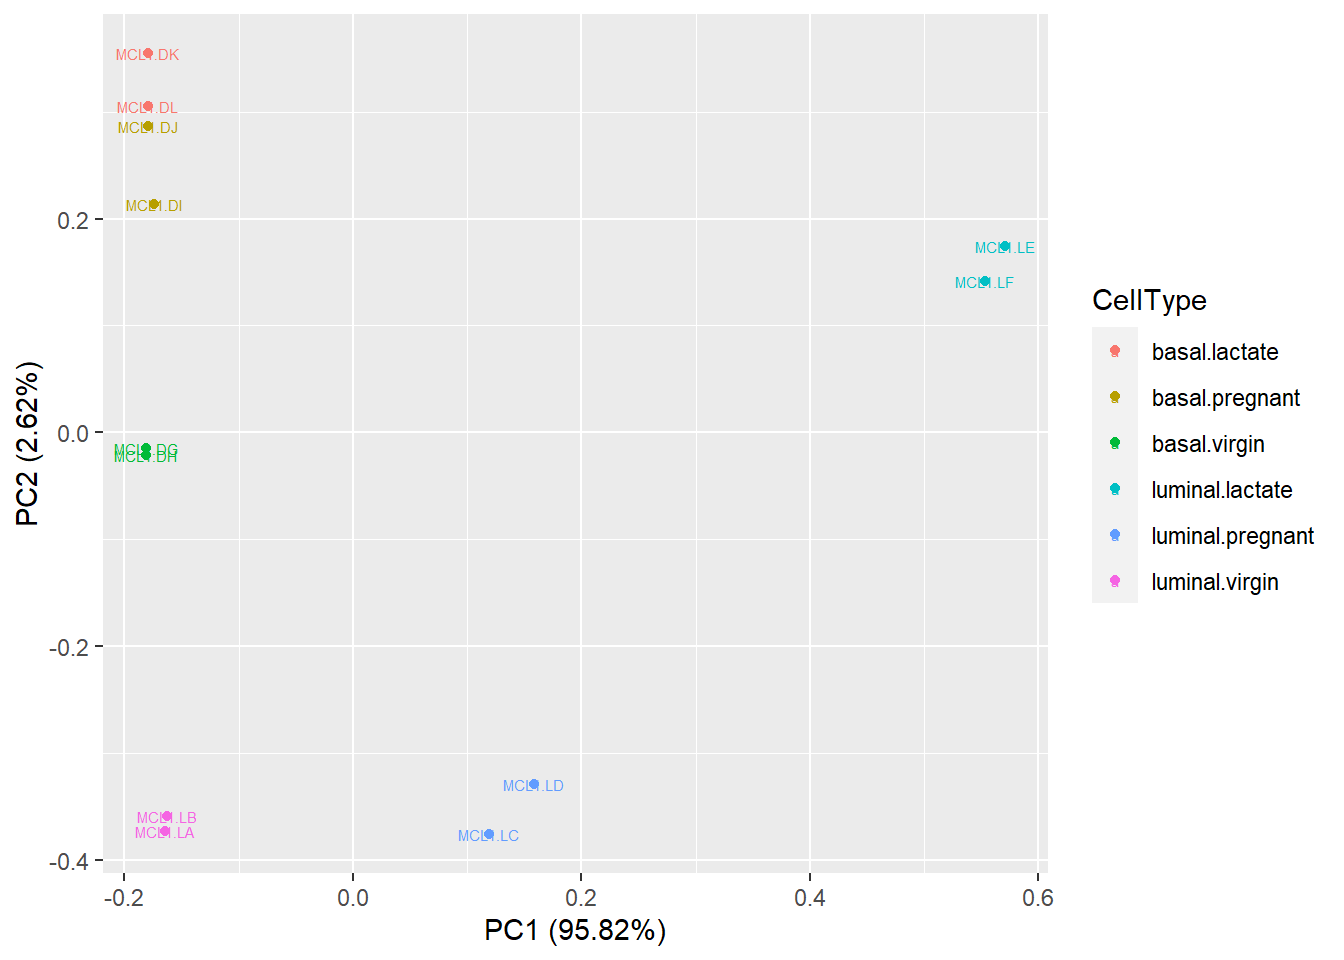
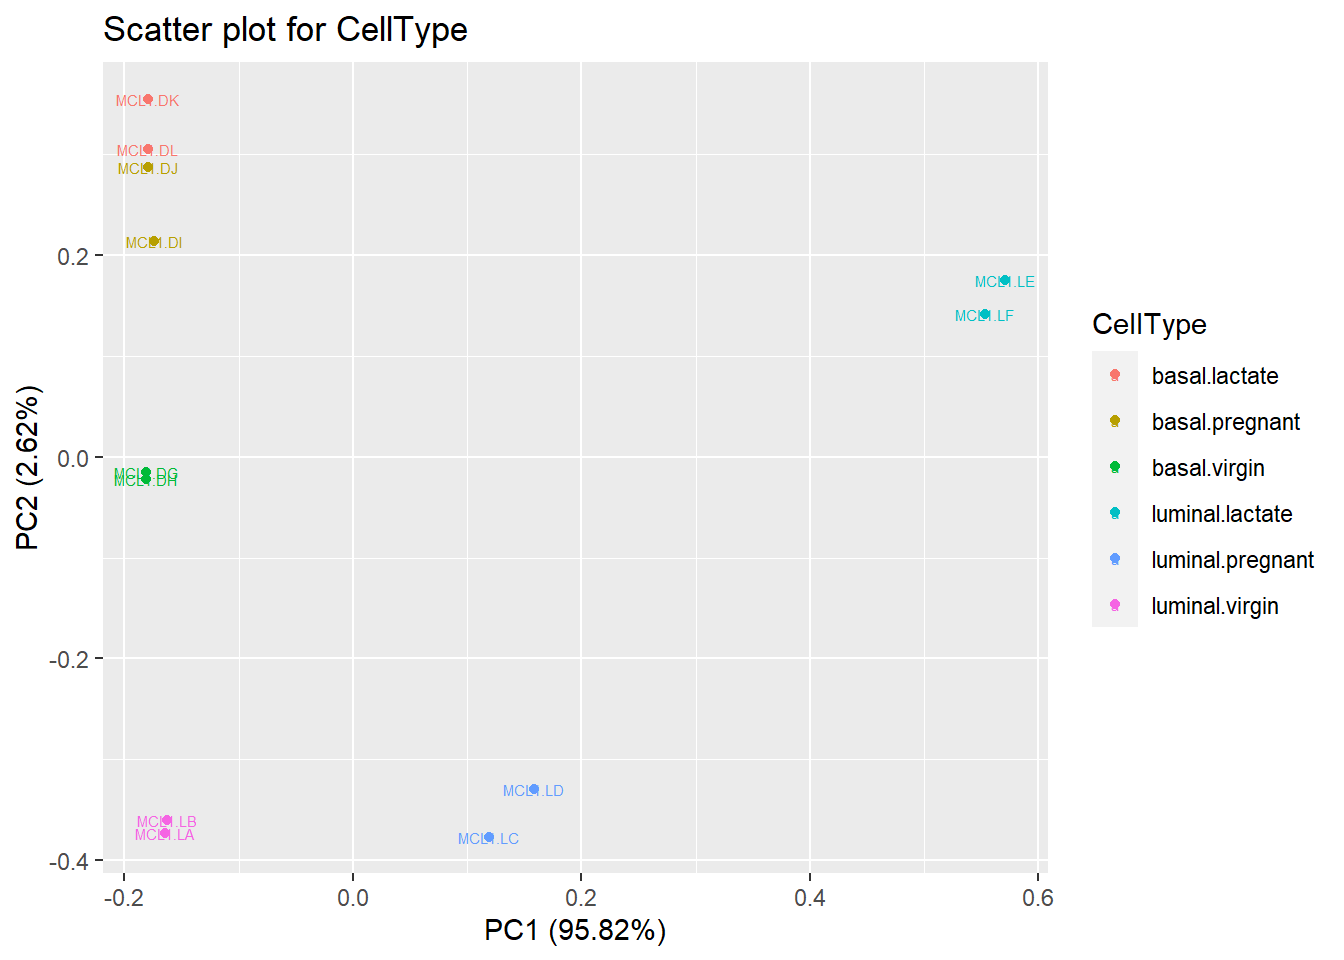
0627

diff --git a/R-workshop/rna-seq-analysis-in-r.html b/R-workshop/rna-seq-analysis-in-r.html
@@ -379,8 +379,7 @@ As we can see RPM = 0.5 can be a very good threshold. Then let’s summarize how
 <p>And finally we can do hierarchical clustering with heatmaps.<a href="https://www.rdocumentation.org/packages/gplots/versions/3.1.1/topics/heatmap.2">heatmap.2()</a> is a very powerful tool from the <code>gplots</code> library to create enhanced heatmap with a dendrogram added to the left side and/or to the top.
 Typically, reordering of the rows and columns according to some set of values (row or column means) within the restrictions imposed by the deprogram is carried out.</p>
 <p><code>heatmap.2</code> provides a number of extensions to the standard R <code>heatmap</code> function.</p>
-<div class="sourceCode" id="cb172"><pre class="sourceCode r"><code class="sourceCode r"><span id="cb172-1"><a href="rna-seq-analysis-in-r.html#cb172-1" aria-hidden="true" tabindex="-1"></a><span class="fu">library</span>(<span class="st">&#39;gplots&#39;</span>)</span></code></pre></div>
-<pre><code>## Warning: package &#39;gplots&#39; was built under R version 4.0.4</code></pre>
+<div class="sourceCode" id="cb172"><pre class="sourceCode r"><code class="sourceCode r"><span id="cb172-1"><a href="rna-seq-analysis-in-r.html#cb172-1" aria-hidden="true" tabindex="-1"></a><span class="fu">library</span>(gplots)</span></code></pre></div>
 <pre><code>## 
 ## Attaching package: &#39;gplots&#39;</code></pre>
 <pre><code>## The following object is masked from &#39;package:stats&#39;:
@@ -388,11 +387,11 @@ Typically, reordering of the rows and columns according to some set of values (r
 ##     lowess</code></pre>
 <div id="plot-top-variable-genes-across-samples" class="section level3" number="8.7.1">
 <h3><span class="header-section-number">8.7.1</span> Plot top variable genes across samples</h3>
-<div class="sourceCode" id="cb176"><pre class="sourceCode r"><code class="sourceCode r"><span id="cb176-1"><a href="rna-seq-analysis-in-r.html#cb176-1" aria-hidden="true" tabindex="-1"></a><span class="fu">heatmap.2</span>(highly_variable_lRpm,<span class="at">trace=</span><span class="st">&quot;none&quot;</span>, <span class="at">main=</span><span class="st">&quot;Top variable genes &quot;</span>,<span class="at">scale=</span><span class="st">&quot;row&quot;</span>,<span class="at">cexCol=</span>.<span class="dv">8</span>,<span class="at">cexRow=</span>.<span class="dv">8</span>)</span></code></pre></div>
+<div class="sourceCode" id="cb175"><pre class="sourceCode r"><code class="sourceCode r"><span id="cb175-1"><a href="rna-seq-analysis-in-r.html#cb175-1" aria-hidden="true" tabindex="-1"></a><span class="fu">heatmap.2</span>(highly_variable_lRpm,<span class="at">trace=</span><span class="st">&quot;none&quot;</span>, <span class="at">main=</span><span class="st">&quot;Top variable genes &quot;</span>,<span class="at">scale=</span><span class="st">&quot;row&quot;</span>,<span class="at">cexCol=</span>.<span class="dv">8</span>,<span class="at">cexRow=</span>.<span class="dv">8</span>)</span></code></pre></div>
 <p><img src="01-intro_files/figure-html/unnamed-chunk-106-1.png" width="672" /></p>
 <p><strong>Advance</strong></p>
 <p>As we can see, the result of heatmap.2 is not easy to interpret, if we want to add more information such as annotation for cell types, we can use <a href="http://nmf.r-forge.r-project.org/aheatmap.html"><code>aheatmap</code></a> function from <em>NMF</em> package.</p>
-<div class="sourceCode" id="cb177"><pre class="sourceCode r"><code class="sourceCode r"><span id="cb177-1"><a href="rna-seq-analysis-in-r.html#cb177-1" aria-hidden="true" tabindex="-1"></a><span class="fu">library</span>(NMF)</span></code></pre></div>
+<div class="sourceCode" id="cb176"><pre class="sourceCode r"><code class="sourceCode r"><span id="cb176-1"><a href="rna-seq-analysis-in-r.html#cb176-1" aria-hidden="true" tabindex="-1"></a><span class="fu">library</span>(NMF)</span></code></pre></div>
 <pre><code>## Loading required package: pkgmaker</code></pre>
 <pre><code>## Loading required package: registry</code></pre>
 <pre><code>## Loading required package: rngtools</code></pre>
@@ -407,25 +406,25 @@ Typically, reordering of the rows and columns according to some set of values (r
 <li>labCol=sampleinfo$group: Labels for the columns are the group informations from sampleinfo.</li>
 </ul>
 <p>And by specifying all the details, we can get a very beautiful heatmap.</p>
-<div class="sourceCode" id="cb183"><pre class="sourceCode r"><code class="sourceCode r"><span id="cb183-1"><a href="rna-seq-analysis-in-r.html#cb183-1" aria-hidden="true" tabindex="-1"></a><span class="fu">aheatmap</span>(highly_variable_lRpm,<span class="at">color =</span> <span class="st">&quot;-RdYlBu:200&quot;</span>, <span class="at">main=</span><span class="st">&quot;Top 500 most variable genes across samples&quot;</span>, <span class="at">annCol=</span>sampleinfo[, <span class="dv">3</span><span class="sc">:</span><span class="dv">4</span>], <span class="at">scale=</span><span class="st">&quot;row&quot;</span>, <span class="at">labCol=</span>sampleinfo<span class="sc">$</span>group)</span></code></pre></div>
+<div class="sourceCode" id="cb182"><pre class="sourceCode r"><code class="sourceCode r"><span id="cb182-1"><a href="rna-seq-analysis-in-r.html#cb182-1" aria-hidden="true" tabindex="-1"></a><span class="fu">aheatmap</span>(highly_variable_lRpm,<span class="at">color =</span> <span class="st">&quot;-RdYlBu:200&quot;</span>, <span class="at">main=</span><span class="st">&quot;Top 500 most variable genes across samples&quot;</span>, <span class="at">annCol=</span>sampleinfo[, <span class="dv">3</span><span class="sc">:</span><span class="dv">4</span>], <span class="at">scale=</span><span class="st">&quot;row&quot;</span>, <span class="at">labCol=</span>sampleinfo<span class="sc">$</span>group)</span></code></pre></div>
 <p><img src="01-intro_files/figure-html/unnamed-chunk-108-1.png" width="672" /></p>
 <p><strong>Save the figures</strong></p>
 <p>Create a folder called “result”, and now we can save the heatmap into the “result” folder.</p>
-<div class="sourceCode" id="cb184"><pre class="sourceCode r"><code class="sourceCode r"><span id="cb184-1"><a href="rna-seq-analysis-in-r.html#cb184-1" aria-hidden="true" tabindex="-1"></a><span class="fu">png</span>(<span class="at">file=</span><span class="st">&quot;./result/Highvargenes_heatmap.png&quot;</span>,<span class="at">res=</span><span class="dv">100</span>)</span>
-<span id="cb184-2"><a href="rna-seq-analysis-in-r.html#cb184-2" aria-hidden="true" tabindex="-1"></a><span class="fu">aheatmap</span>(highly_variable_lRpm,<span class="at">color =</span> <span class="st">&quot;-RdYlBu:200&quot;</span>, <span class="at">main=</span><span class="st">&quot;Top 500 most variable genes across samples&quot;</span>, <span class="at">annCol=</span>sampleinfo[, <span class="dv">3</span><span class="sc">:</span><span class="dv">4</span>], <span class="at">scale=</span><span class="st">&quot;row&quot;</span>, <span class="at">labCol=</span>sampleinfo<span class="sc">$</span>group)</span>
-<span id="cb184-3"><a href="rna-seq-analysis-in-r.html#cb184-3" aria-hidden="true" tabindex="-1"></a><span class="fu">dev.off</span>()</span></code></pre></div>
+<div class="sourceCode" id="cb183"><pre class="sourceCode r"><code class="sourceCode r"><span id="cb183-1"><a href="rna-seq-analysis-in-r.html#cb183-1" aria-hidden="true" tabindex="-1"></a><span class="fu">png</span>(<span class="at">file=</span><span class="st">&quot;./result/Highvargenes_heatmap.png&quot;</span>,<span class="at">res=</span><span class="dv">100</span>)</span>
+<span id="cb183-2"><a href="rna-seq-analysis-in-r.html#cb183-2" aria-hidden="true" tabindex="-1"></a><span class="fu">aheatmap</span>(highly_variable_lRpm,<span class="at">color =</span> <span class="st">&quot;-RdYlBu:200&quot;</span>, <span class="at">main=</span><span class="st">&quot;Top 500 most variable genes across samples&quot;</span>, <span class="at">annCol=</span>sampleinfo[, <span class="dv">3</span><span class="sc">:</span><span class="dv">4</span>], <span class="at">scale=</span><span class="st">&quot;row&quot;</span>, <span class="at">labCol=</span>sampleinfo<span class="sc">$</span>group)</span>
+<span id="cb183-3"><a href="rna-seq-analysis-in-r.html#cb183-3" aria-hidden="true" tabindex="-1"></a><span class="fu">dev.off</span>()</span></code></pre></div>
 <p>You can also use <code>pdf()</code> to save your figures in pdf format.</p>
 </div>
 <div id="plot-sample-sample-clustering-heatmap" class="section level3" number="8.7.2">
 <h3><span class="header-section-number">8.7.2</span> Plot sample-sample clustering heatmap</h3>
 <p>Pearson correlation is used to evaluate the correlation between samples when the data is normally distribute. As we already normalize the data, so we can get the pearson correlation by:</p>
-<div class="sourceCode" id="cb185"><pre class="sourceCode r"><code class="sourceCode r"><span id="cb185-1"><a href="rna-seq-analysis-in-r.html#cb185-1" aria-hidden="true" tabindex="-1"></a>corr <span class="ot">&lt;-</span> <span class="fu">cor</span>(myRPM.keep)</span>
-<span id="cb185-2"><a href="rna-seq-analysis-in-r.html#cb185-2" aria-hidden="true" tabindex="-1"></a><span class="fu">aheatmap</span>(corr,<span class="at">main =</span> <span class="st">&quot;Correlation beween samples&quot;</span>,<span class="at">labCol=</span>sampleinfo<span class="sc">$</span>group,<span class="at">labRow=</span>sampleinfo<span class="sc">$</span>group, <span class="at">width =</span> <span class="fl">0.5</span>, <span class="at">height =</span> <span class="fl">0.5</span>)</span></code></pre></div>
+<div class="sourceCode" id="cb184"><pre class="sourceCode r"><code class="sourceCode r"><span id="cb184-1"><a href="rna-seq-analysis-in-r.html#cb184-1" aria-hidden="true" tabindex="-1"></a>corr <span class="ot">&lt;-</span> <span class="fu">cor</span>(myRPM.keep)</span>
+<span id="cb184-2"><a href="rna-seq-analysis-in-r.html#cb184-2" aria-hidden="true" tabindex="-1"></a><span class="fu">aheatmap</span>(corr,<span class="at">main =</span> <span class="st">&quot;Correlation beween samples&quot;</span>,<span class="at">labCol=</span>sampleinfo<span class="sc">$</span>group,<span class="at">labRow=</span>sampleinfo<span class="sc">$</span>group, <span class="at">width =</span> <span class="fl">0.5</span>, <span class="at">height =</span> <span class="fl">0.5</span>)</span></code></pre></div>
 <p><img src="01-intro_files/figure-html/unnamed-chunk-110-1.png" width="672" />
 Plot the heatmap and save the figures:</p>
-<div class="sourceCode" id="cb186"><pre class="sourceCode r"><code class="sourceCode r"><span id="cb186-1"><a href="rna-seq-analysis-in-r.html#cb186-1" aria-hidden="true" tabindex="-1"></a><span class="fu">png</span>(<span class="at">file=</span><span class="st">&quot;./result/correlations_heatmap.png&quot;</span>,<span class="at">res=</span><span class="dv">100</span>)</span>
-<span id="cb186-2"><a href="rna-seq-analysis-in-r.html#cb186-2" aria-hidden="true" tabindex="-1"></a><span class="fu">aheatmap</span>(corr,<span class="at">main =</span> <span class="st">&quot;Correlation beween samples&quot;</span>,<span class="at">labCol=</span>sampleinfo<span class="sc">$</span>group,<span class="at">labRow=</span>sampleinfo<span class="sc">$</span>group, <span class="at">width =</span> <span class="fl">0.5</span>, <span class="at">height =</span> <span class="fl">0.5</span>)</span>
-<span id="cb186-3"><a href="rna-seq-analysis-in-r.html#cb186-3" aria-hidden="true" tabindex="-1"></a><span class="fu">dev.off</span>()</span></code></pre></div>
+<div class="sourceCode" id="cb185"><pre class="sourceCode r"><code class="sourceCode r"><span id="cb185-1"><a href="rna-seq-analysis-in-r.html#cb185-1" aria-hidden="true" tabindex="-1"></a><span class="fu">png</span>(<span class="at">file=</span><span class="st">&quot;./result/correlations_heatmap.png&quot;</span>,<span class="at">res=</span><span class="dv">100</span>)</span>
+<span id="cb185-2"><a href="rna-seq-analysis-in-r.html#cb185-2" aria-hidden="true" tabindex="-1"></a><span class="fu">aheatmap</span>(corr,<span class="at">main =</span> <span class="st">&quot;Correlation beween samples&quot;</span>,<span class="at">labCol=</span>sampleinfo<span class="sc">$</span>group,<span class="at">labRow=</span>sampleinfo<span class="sc">$</span>group, <span class="at">width =</span> <span class="fl">0.5</span>, <span class="at">height =</span> <span class="fl">0.5</span>)</span>
+<span id="cb185-3"><a href="rna-seq-analysis-in-r.html#cb185-3" aria-hidden="true" tabindex="-1"></a><span class="fu">dev.off</span>()</span></code></pre></div>
 <pre><code>## png 
 ##   2</code></pre>
 </div>
@@ -434,22 +433,21 @@ Plot the heatmap and save the figures:</p>
 <h2><span class="header-section-number">8.8</span> PCA for multidimensional scaling plots</h2>
 <p>Principle components analysis, which determines the greatest sources of variation in the data. We can use the <a href="https://www.rdocumentation.org/packages/stats/versions/3.6.2/topics/prcomp">prcomp()</a> function to perform a principal components analysis on the given data matrix from the package <em>stats</em>.
 <em>ggfortify</em> is a package provides functions for <em>ggplot2</em> to know how to interpret PCA objects. You can use <code>autoplot()</code> function for <code>stats::prcomp</code> and <code>stats::princomp</code> objects.</p>
-<div class="sourceCode" id="cb188"><pre class="sourceCode r"><code class="sourceCode r"><span id="cb188-1"><a href="rna-seq-analysis-in-r.html#cb188-1" aria-hidden="true" tabindex="-1"></a><span class="fu">library</span>(stats)</span>
-<span id="cb188-2"><a href="rna-seq-analysis-in-r.html#cb188-2" aria-hidden="true" tabindex="-1"></a><span class="fu">library</span>(ggfortify)</span></code></pre></div>
-<pre><code>## Warning: package &#39;ggfortify&#39; was built under R version 4.0.5</code></pre>
+<div class="sourceCode" id="cb187"><pre class="sourceCode r"><code class="sourceCode r"><span id="cb187-1"><a href="rna-seq-analysis-in-r.html#cb187-1" aria-hidden="true" tabindex="-1"></a><span class="fu">library</span>(stats)</span>
+<span id="cb187-2"><a href="rna-seq-analysis-in-r.html#cb187-2" aria-hidden="true" tabindex="-1"></a><span class="fu">library</span>(ggfortify)</span></code></pre></div>
 <p>First, we create the right inpur format for <code>stats::prcomp</code>, and we add a new column called CellType with the cell type information from sampleinfo.</p>
-<div class="sourceCode" id="cb190"><pre class="sourceCode r"><code class="sourceCode r"><span id="cb190-1"><a href="rna-seq-analysis-in-r.html#cb190-1" aria-hidden="true" tabindex="-1"></a>RPMforPCA <span class="ot">&lt;-</span> <span class="fu">t</span>(myRPM.keep)</span>
-<span id="cb190-2"><a href="rna-seq-analysis-in-r.html#cb190-2" aria-hidden="true" tabindex="-1"></a>RPMforPCA <span class="ot">&lt;-</span> <span class="fu">as.data.frame</span>(RPMforPCA)</span>
-<span id="cb190-3"><a href="rna-seq-analysis-in-r.html#cb190-3" aria-hidden="true" tabindex="-1"></a>RPMforPCA<span class="sc">$</span>CellType <span class="ot">&lt;-</span> sampleinfo<span class="sc">$</span>group</span>
-<span id="cb190-4"><a href="rna-seq-analysis-in-r.html#cb190-4" aria-hidden="true" tabindex="-1"></a>pc <span class="ot">&lt;-</span> <span class="fu">prcomp</span>(RPMforPCA[,<span class="dv">1</span><span class="sc">:</span><span class="fu">ncol</span>(RPMforPCA)<span class="sc">-</span><span class="dv">1</span>])</span>
-<span id="cb190-5"><a href="rna-seq-analysis-in-r.html#cb190-5" aria-hidden="true" tabindex="-1"></a><span class="fu">autoplot</span>(pc, <span class="at">data =</span> RPMforPCA, <span class="at">label =</span> <span class="cn">TRUE</span>, <span class="at">label.size =</span> <span class="dv">2</span>, <span class="at">colour =</span> <span class="st">&#39;CellType&#39;</span>)</span></code></pre></div>
+<div class="sourceCode" id="cb188"><pre class="sourceCode r"><code class="sourceCode r"><span id="cb188-1"><a href="rna-seq-analysis-in-r.html#cb188-1" aria-hidden="true" tabindex="-1"></a>RPMforPCA <span class="ot">&lt;-</span> <span class="fu">t</span>(myRPM.keep)</span>
+<span id="cb188-2"><a href="rna-seq-analysis-in-r.html#cb188-2" aria-hidden="true" tabindex="-1"></a>RPMforPCA <span class="ot">&lt;-</span> <span class="fu">as.data.frame</span>(RPMforPCA)</span>
+<span id="cb188-3"><a href="rna-seq-analysis-in-r.html#cb188-3" aria-hidden="true" tabindex="-1"></a>RPMforPCA<span class="sc">$</span>CellType <span class="ot">&lt;-</span> sampleinfo<span class="sc">$</span>group</span>
+<span id="cb188-4"><a href="rna-seq-analysis-in-r.html#cb188-4" aria-hidden="true" tabindex="-1"></a>pc <span class="ot">&lt;-</span> <span class="fu">prcomp</span>(RPMforPCA[,<span class="dv">1</span><span class="sc">:</span><span class="fu">ncol</span>(RPMforPCA)<span class="sc">-</span><span class="dv">1</span>])</span>
+<span id="cb188-5"><a href="rna-seq-analysis-in-r.html#cb188-5" aria-hidden="true" tabindex="-1"></a><span class="fu">autoplot</span>(pc, <span class="at">data =</span> RPMforPCA, <span class="at">label =</span> <span class="cn">TRUE</span>, <span class="at">label.size =</span> <span class="dv">2</span>, <span class="at">colour =</span> <span class="st">&#39;CellType&#39;</span>)<span class="sc">+</span>ggplot2<span class="sc">::</span><span class="fu">ggtitle</span>(<span class="st">&quot;Scatter plot for CellType&quot;</span>)</span></code></pre></div>
 <pre><code>## Warning: `select_()` was deprecated in dplyr 0.7.0.
 ## Please use `select()` instead.</code></pre>
 <p><img src="01-intro_files/figure-html/unnamed-chunk-113-1.png" width="672" /></p>
 <p>Use autoplot to visualize PCA results and save the figures.</p>
-<div class="sourceCode" id="cb192"><pre class="sourceCode r"><code class="sourceCode r"><span id="cb192-1"><a href="rna-seq-analysis-in-r.html#cb192-1" aria-hidden="true" tabindex="-1"></a><span class="fu">png</span>(<span class="at">file=</span><span class="st">&quot;./result/pca_results.png&quot;</span>,<span class="at">res=</span><span class="dv">100</span>)</span>
-<span id="cb192-2"><a href="rna-seq-analysis-in-r.html#cb192-2" aria-hidden="true" tabindex="-1"></a><span class="fu">autoplot</span>(pc, <span class="at">data =</span> RPMforPCA, <span class="at">label =</span> <span class="cn">TRUE</span>, <span class="at">label.size =</span> <span class="dv">2</span>, <span class="at">colour =</span> <span class="st">&#39;CellType&#39;</span>)</span>
-<span id="cb192-3"><a href="rna-seq-analysis-in-r.html#cb192-3" aria-hidden="true" tabindex="-1"></a><span class="fu">dev.off</span>()</span></code></pre></div>
+<div class="sourceCode" id="cb190"><pre class="sourceCode r"><code class="sourceCode r"><span id="cb190-1"><a href="rna-seq-analysis-in-r.html#cb190-1" aria-hidden="true" tabindex="-1"></a><span class="fu">png</span>(<span class="at">file=</span><span class="st">&quot;./result/pca_results.png&quot;</span>,<span class="at">res=</span><span class="dv">100</span>)</span>
+<span id="cb190-2"><a href="rna-seq-analysis-in-r.html#cb190-2" aria-hidden="true" tabindex="-1"></a><span class="fu">autoplot</span>(pc, <span class="at">data =</span> RPMforPCA, <span class="at">label =</span> <span class="cn">TRUE</span>, <span class="at">label.size =</span> <span class="dv">2</span>, <span class="at">colour =</span> <span class="st">&#39;CellType&#39;</span>)<span class="sc">+</span>ggplot2<span class="sc">::</span><span class="fu">ggtitle</span>(<span class="st">&quot;Scatter plot for CellType&quot;</span>)</span>
+<span id="cb190-3"><a href="rna-seq-analysis-in-r.html#cb190-3" aria-hidden="true" tabindex="-1"></a><span class="fu">dev.off</span>()</span></code></pre></div>
 <pre><code>## png 
 ##   2</code></pre>
 </div>

diff --git a/R-workshop/prerequisite.html b/R-workshop/prerequisite.html
@@ -349,7 +349,10 @@ library(package_name)</code></pre>
 <h3><span class="header-section-number">2.2.4</span> Install packages</h3>
 <p>There are two packages used in this workshop, in the R console, type:</p>
 <pre><code>install.packages(&#39;ggplot2&#39;)
-install.packages(&#39;gplots&#39;)</code></pre>
+install.packages(&#39;gplots&#39;)
+install.packages(&#39;NMF&#39;)
+install.packages(&#39;stats&#39;)
+install.packages(&#39;ggfortify&#39;)</code></pre>
 </div>
 </div>
 </div>
